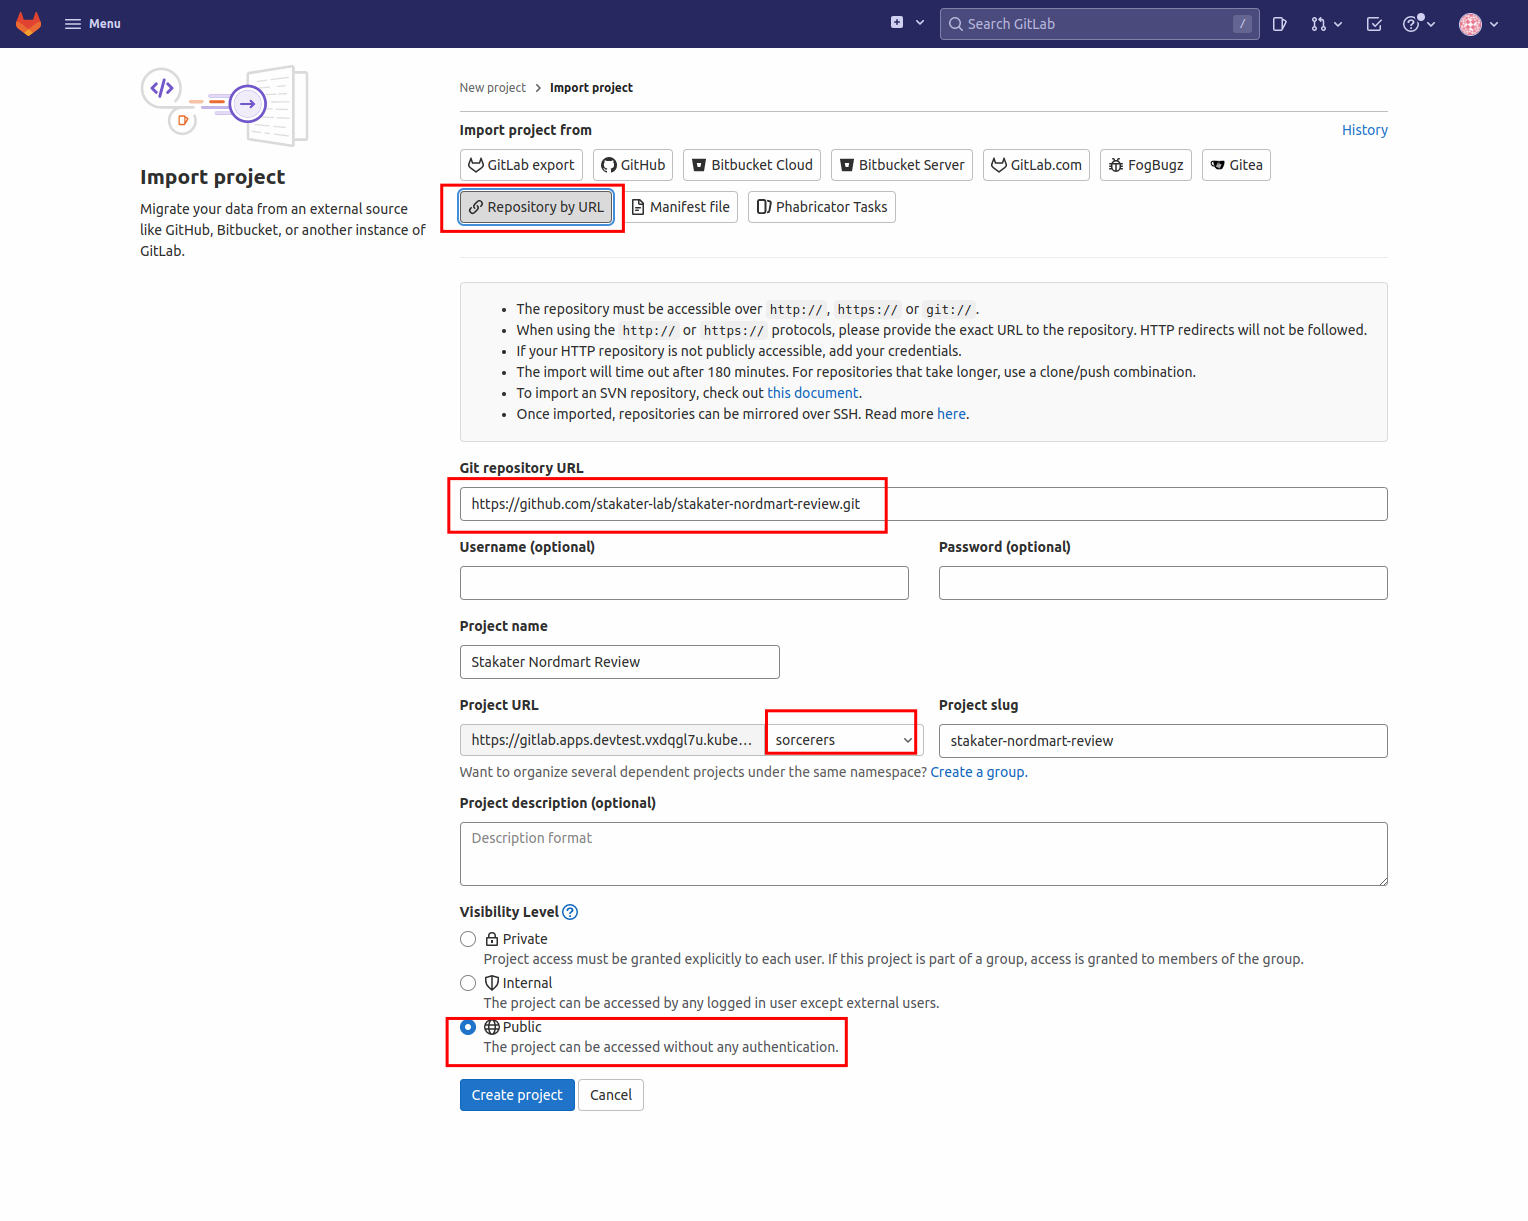
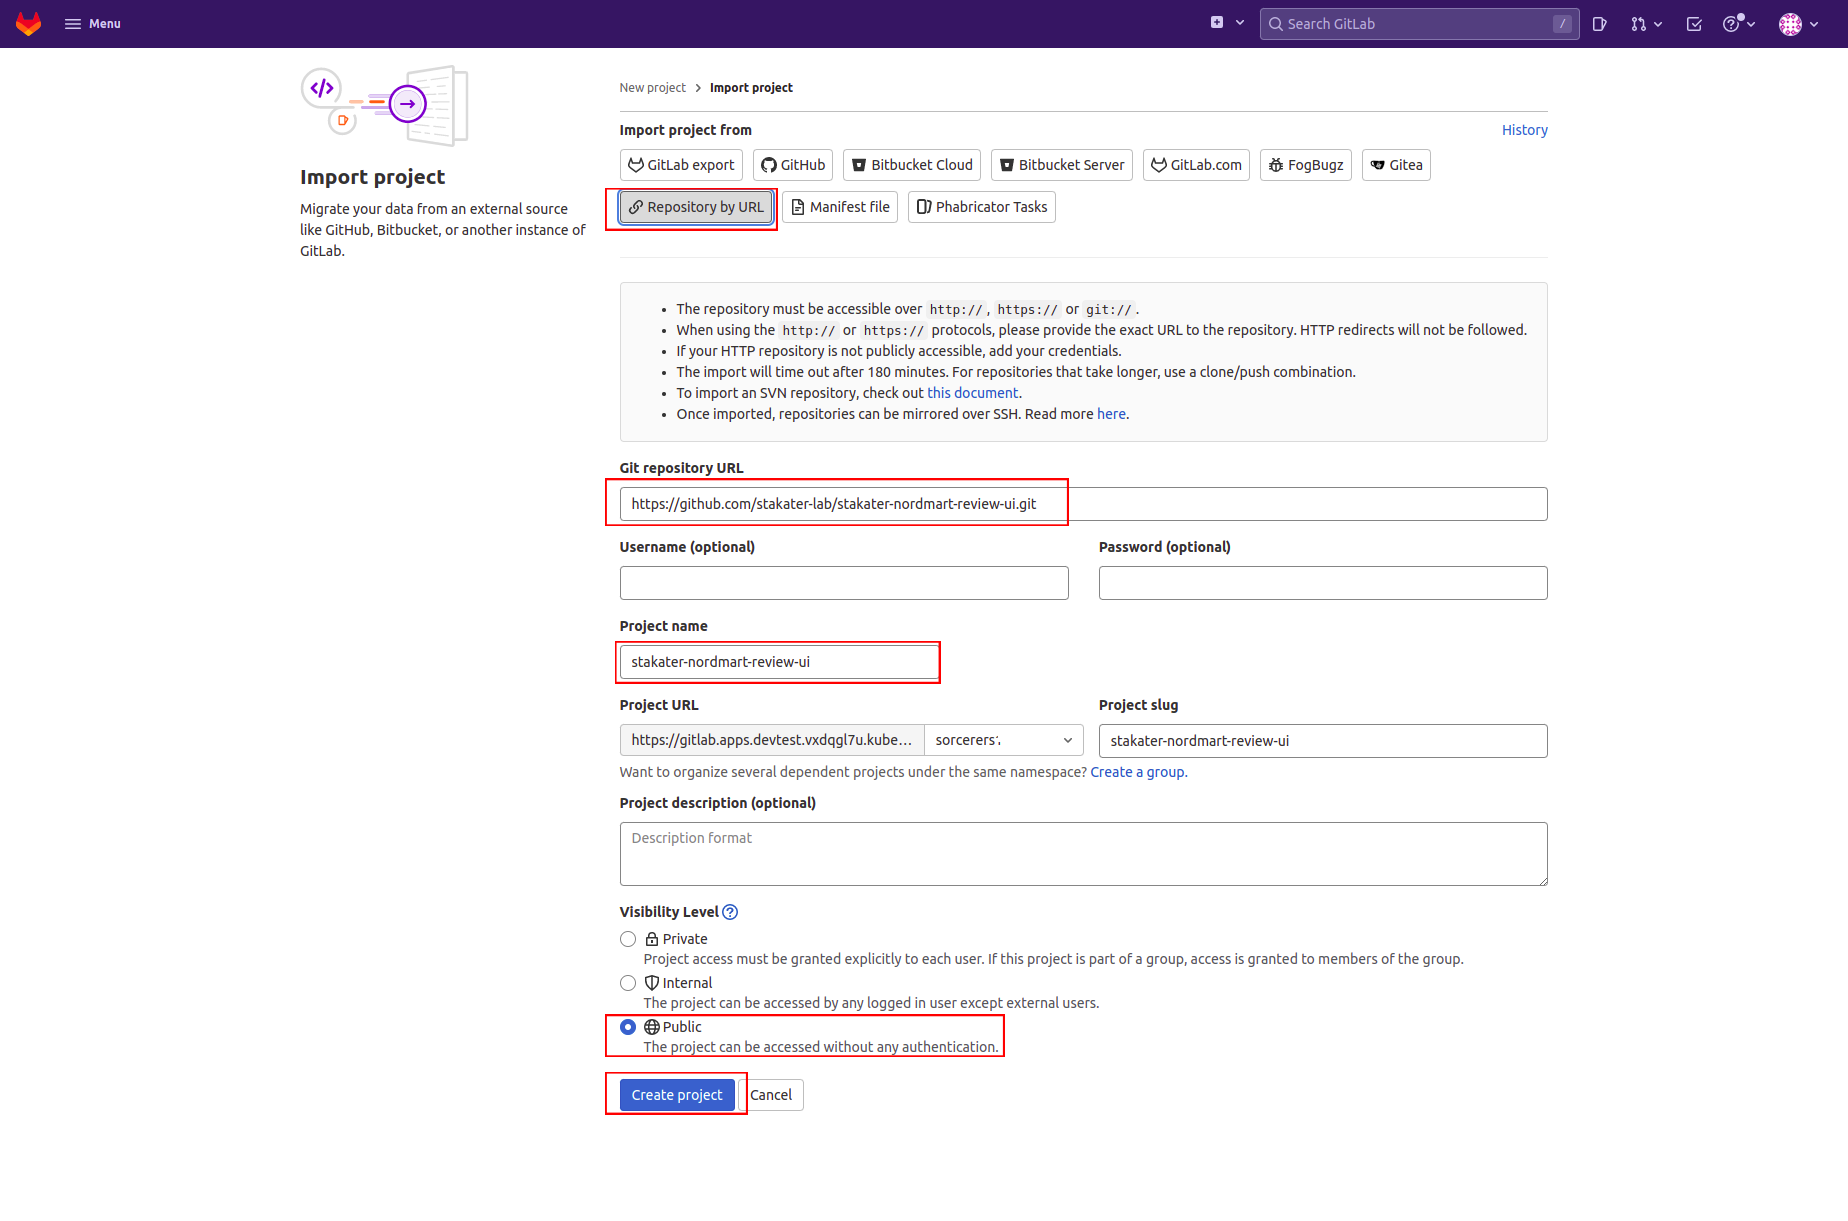
Update Gitlab

diff --git a/docs/1-the-manual-menace/9-git-with-gitlab.md b/docs/1-the-manual-menace/9-git-with-gitlab.md
@@ -74,7 +74,7 @@ Add member to the group using the "Invite member" option.
 
 2. Now select the "Repository by URL" option and paste in the following repository URL:
     ```
-        https://github.com/stakater-lab/stakater-nordmart-review.git
+    https://github.com/stakater-lab/stakater-nordmart-review.git
     ```
    > Make sure you mark the repository as public and choose the group you previously created as the group name. 
     
@@ -89,10 +89,25 @@ Add member to the group using the "Invite member" option.
 
 2. Now select the "Repository by URL" option and paste in the following repository URL:
     ```
-        https://github.com/stakater-lab/stakater-nordmart-review-ui.git
+    https://github.com/stakater-lab/stakater-nordmart-review-ui.git
     ```
    > Make sure you mark the repository as public and choose the group you previously created as the group name.
    
    > Make sure that Project Name is lower case and doesnt contain spaces. Use '-' instead.
     
     ![import-nordmart-review](images/import-nordmart-review-ui.png)
+
+
+## Importing Nordmart Apps Gitops Config
+1. Select "Projects" from the menu and click "Create project". This will redirect you to the following screen. Select "Import Project".
+   ![create-project-home](images/create-project-home.png)
+
+2. Now select the "Repository by URL" option and paste in the following repository URL:
+    ```
+    https://github.com/stakater-lab/nordmart-apps-gitops-config.git
+    ```
+   > Make sure you mark the repository as public and choose the group you previously created as the group name.
+   
+   > Make sure that Project Name is lower case and doesnt contain spaces. Use '-' instead.
+    
+    ![import-nordmart-review](images/import-nordmart-apps.png)
